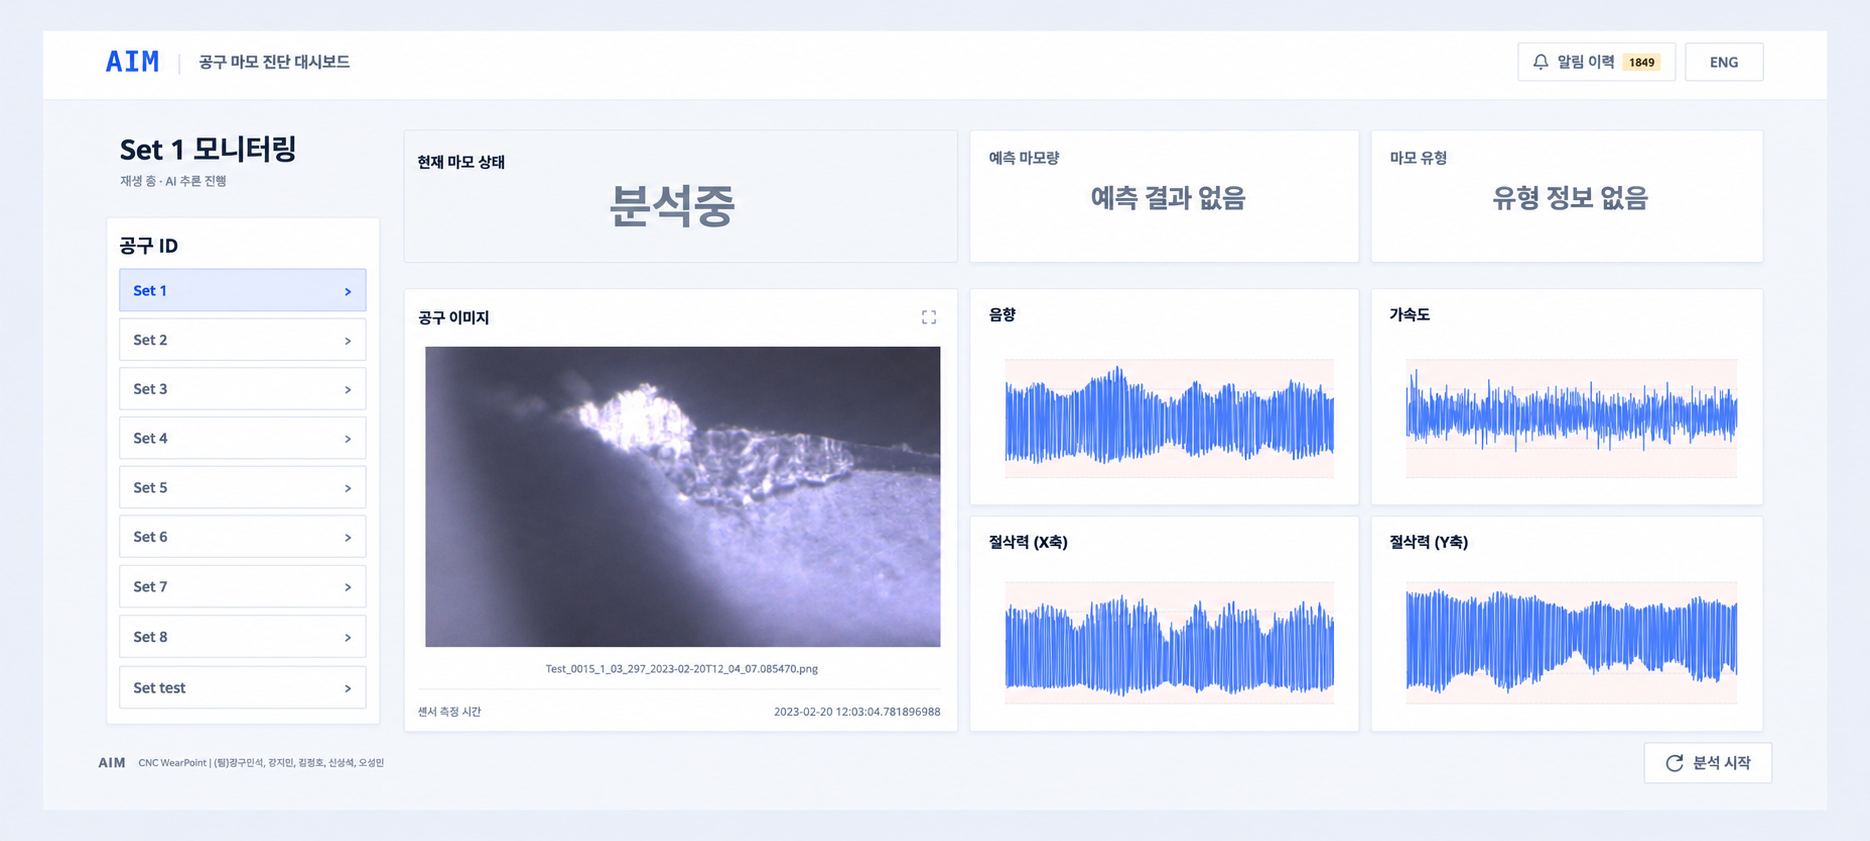
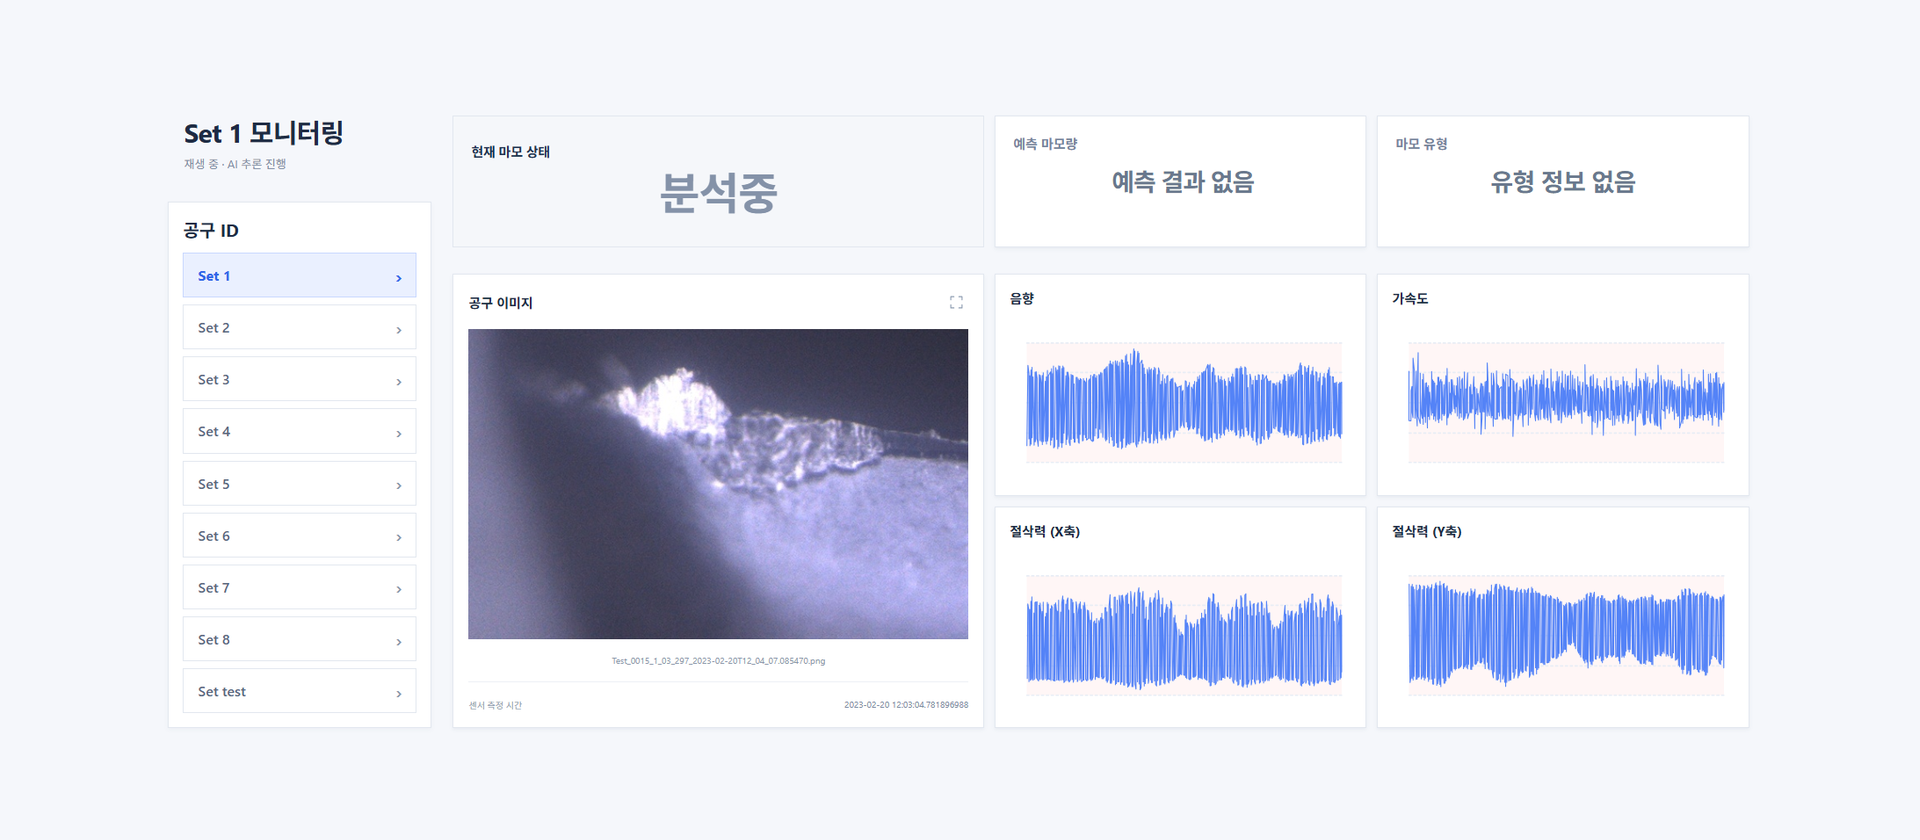
fix: refine landing dashboard preview alignment

diff --git a/src/aim-ui/styles/landing.css b/src/aim-ui/styles/landing.css
@@ -160,7 +160,7 @@
   height: 100%;
   max-height: none;
   object-fit: cover;
-  object-position: center;
+  object-position: center 55%;
   transform: scale(1.08);
   border: 0;
   background: transparent;
